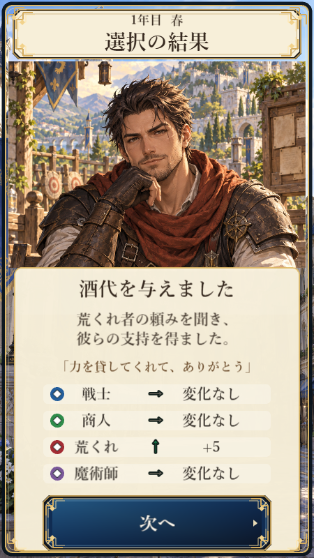
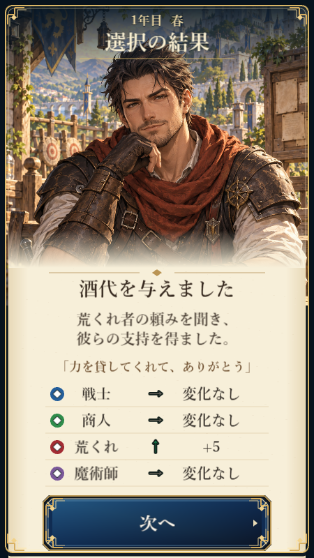
Blend outcome illustrations into parchment with integrated headings

diff --git a/games/karma-quest/src/conceptArt.ts b/games/karma-quest/src/conceptArt.ts
@@ -159,7 +159,7 @@ function requestCard(scene: Phaser.Scene, root: Phaser.GameObjects.Container, x:
 
 function effectRow(scene: Phaser.Scene, root: Phaser.GameObjects.Container, y: number, color: number, label: string, arrow: string, result: string): [Phaser.GameObjects.Text, Phaser.GameObjects.Text] {
   const g = scene.add.graphics();
-  g.fillStyle(0xffffff, 0.28).fillRoundedRect(62, y - 14, 326, 28, 7);
+  g.lineStyle(1, 0xb79451, 0.26).lineBetween(65, y + 18, 385, y + 18);
   g.fillStyle(color, 1).fillCircle(82, y, 10);
   root.add(g);
   text(scene, root, 82, y, "◆", 11, "#ffffff", "900");
@@ -448,23 +448,50 @@ function outcomeArt(scene: Runtime, root: Phaser.GameObjects.Container, x: numbe
   });
 }
 
+function resultPaper(scene: Phaser.Scene, root: Phaser.GameObjects.Container, landscape: boolean): void {
+  const top = landscape ? 442 : 384;
+  const g = scene.add.graphics();
+  // A continuous reading surface lets the illustration fade into the page
+  // instead of looking like an image above a separate web card.
+  g.fillStyle(0xf7efd9, 1).fillRect(12, top, 426, 800 - top);
+  if (!landscape) g.fillGradientStyle(0xf7efd9, 0xf7efd9, 0xf7efd9, 0xf7efd9, 0, 0, 1, 1).fillRect(12, top - 54, 426, 54);
+  g.fillGradientStyle(0xb99552, 0xf7efd9, 0xb99552, 0xf7efd9, 0.25, 0, 0.25, 0).fillRect(12, top, 28, 800 - top);
+  g.fillGradientStyle(0xf7efd9, 0xb99552, 0xf7efd9, 0xb99552, 0, 0.25, 0, 0.25).fillRect(410, top, 28, 800 - top);
+  // Fixed, low-contrast paper grain; no per-frame random noise or animation.
+  for (let i = 0; i < 460; i++) {
+    const x = 24 + ((i * 137) % 402);
+    const y = top + ((i * 97) % (788 - top));
+    g.fillStyle(i % 2 ? 0x977543 : 0xffffff, 0.055).fillRect(x, y, i % 3 + 1, 1);
+  }
+  const ruleY = landscape ? 445 : 391;
+  g.lineStyle(1, 0xaa8242, 0.7).lineBetween(70, ruleY, 200, ruleY).lineBetween(250, ruleY, 380, ruleY);
+  g.fillStyle(0xb38a44, 0.9).fillPoints([
+    new Phaser.Math.Vector2(225, ruleY - 5), new Phaser.Math.Vector2(232, ruleY),
+    new Phaser.Math.Vector2(225, ruleY + 5), new Phaser.Math.Vector2(218, ruleY),
+  ], true);
+  root.add(g);
+}
+
 function buildReaction(scene: Runtime, landscape = false): Pick<MockUi, "reactionRoot" | "reactionTitle" | "reactionBody" | "reactionQuote" | "reactionArrows" | "reactionResults"> {
   const screen = scene.add.container(0, 0).setDepth(6200).setVisible(false);
   if (landscape) {
     const background = scene.add.graphics().fillStyle(0x07131e, 1).fillRect(0, 0, 800, 450);
     screen.add(background);
     outcomeArt(scene, screen, 8, 8, 350, 434);
-    requestCard(scene, screen, 183, 49, 334, 72);
   } else {
-    cover(scene, screen, HOME_BG_KEY);
-    outcomeArt(scene, screen, 12, 88, 426, 296);
-    requestCard(scene, screen, 225, 49, 414, 72);
+    screen.add(scene.add.graphics().fillStyle(0x07131e, 1).fillRect(0, 0, 450, 800));
+    outcomeArt(scene, screen, 8, 8, 434, 430);
   }
-  text(scene, screen, landscape ? 183 : 225, 29, "", 18, "#35281e", "800").setName("reactionYear");
-  text(scene, screen, landscape ? 183 : 225, 61, "選択の結果", 30, "#35281e", "900");
+  const width = landscape ? 350 : 434;
+  const lighting = scene.add.graphics();
+  lighting.fillGradientStyle(0x061522, 0x061522, 0x061522, 0x061522, 0.94, 0.94, 0, 0).fillRect(8, 8, width, 120);
+  lighting.lineStyle(1, 0xe0bb69, 0.8).lineBetween(landscape ? 72 : 114, 84, landscape ? 294 : 336, 84);
+  screen.add(lighting);
+  text(scene, screen, landscape ? 183 : 225, 29, "", 18, "#f4dfaa", "800").setStroke("#091420", 1).setName("reactionYear");
+  text(scene, screen, landscape ? 183 : 225, 61, "選択の結果", 30, "#fff4d5", "900").setStroke("#091420", 1);
   const root = scene.add.container(landscape ? 354 : 0, landscape ? -374 : 0);
   screen.add(root);
-  panel(scene, root, 225, landscape ? 616 : 587, 408, landscape ? 348 : 406, 0xf7efd9, 0.98);
+  resultPaper(scene, root, landscape);
   const reactionTitle = text(scene, root, 225, landscape ? 470 : 415, "", 28, "#35281e", "900");
   const reactionBody = text(scene, root, 225, landscape ? 518 : 472, "", 21, "#43382e", "700", 378).setName("reactionBody");
   const reactionQuote = text(scene, root, 225, landscape ? 558 : 526, "", 18, "#6a4a2a", "700", 370).setName("reactionQuote");

diff --git a/docs/review/karma-four-screen-review.md b/docs/review/karma-four-screen-review.md
@@ -5,6 +5,7 @@
 
 ## 今回の修正
 
+- 結果画面のイラストを外枠まで拡大。白い見出しカードを廃止し、上端の暗い陰影へ金色の見出しを重ねた。縦画面は絵の下端を羊皮紙へフェードで接続し、紙の端の陰影・微細な質感・罫線を追加。[変更前](karma-faction-patterns-before-presentation.png) / [変更後](karma-faction-patterns.png)。画像自体は変更せず、実装側の見せ方を調整。
 - 横画面ホームは人物・王都背景を左、依頼と保存済み実績・出発ボタンを右に分離。[ホーム](karma-compact-home-landscape.png)。横画面年代記は人物・能力値を左、最新の選択と直前の記録・再出発を右へ配置。[年代記](karma-compact-chronicle-landscape.png)。縦横で同じ実データを参照する。横ホームは出発中心の構成で、縦ホームの情報ナビは未配置。
 - ホームの依頼を実際の抽選結果に接続。出発した1年目にはその依頼を引き継ぎ、次の旅用の依頼は別途抽選する。固定レベル・通貨は表示せず、保存済みの累計評価・最高到達年を表示する。
 - 選択画面の依頼者は全身を縮める配置から、270×270の領域に頭・組んだ手を収める配置へ変更。縦横同率で拡大し、ローブ下部をトリミングした。左下の主人公と顔が重ならず、本文下端から6px、ボタン上端から13pxの間隔を確保。背景の暗さも軽減した。

diff --git a/docs/design/karma-ui-design-system.md b/docs/design/karma-ui-design-system.md
@@ -8,7 +8,16 @@
 
 方向性は「深い色面と細い金属枠を持つ、読みやすい王道ファンタジー」。背景と人物を主役にしつつ、操作面は十分な面積と明暗差を持たせる。大きな丸角、明るいベタ塗り、太い文字縁取り、全面の強い発光は使用しない。
 
-## 色の役割
+## イラストと情報面のつなぎ方（結果画面）
+
+- イラストを独立した角丸カードに閉じ込めず、画面の細い外枠まで広げる。素材の拡縮は縦横同率を維持する。
+- 見出しは白いカードを追加せず、絵の上端に重ねる。上から透明へ抜ける暗い陰影で文字の明暗差を確保し、目・口を避ける。
+- 縦画面はイラスト下端を54設計pxのフェードで羊皮紙へつなぐ。本文は完全に不透明な領域に置き、画像の細部と競合させない。
+- 羊皮紙の端に弱い陰影、紙面に固定の低コントラスト粒子を加える。ランダムな点滅や全面の発光は使わない。
+- 数値一覧は細い罫線で揃え、行ごとの丸いカードを増やさない。ボタンだけが操作面として独立して見えるようにする。
+- 今回の適用は結果画面。ホーム・選択・年代記へ展開する際も、既存の可読性と顔・操作の分離を維持する。
+
+## 色の役割（一覧）
 
 | トークン | 値 | 用途 |
 | --- | --- | --- |
